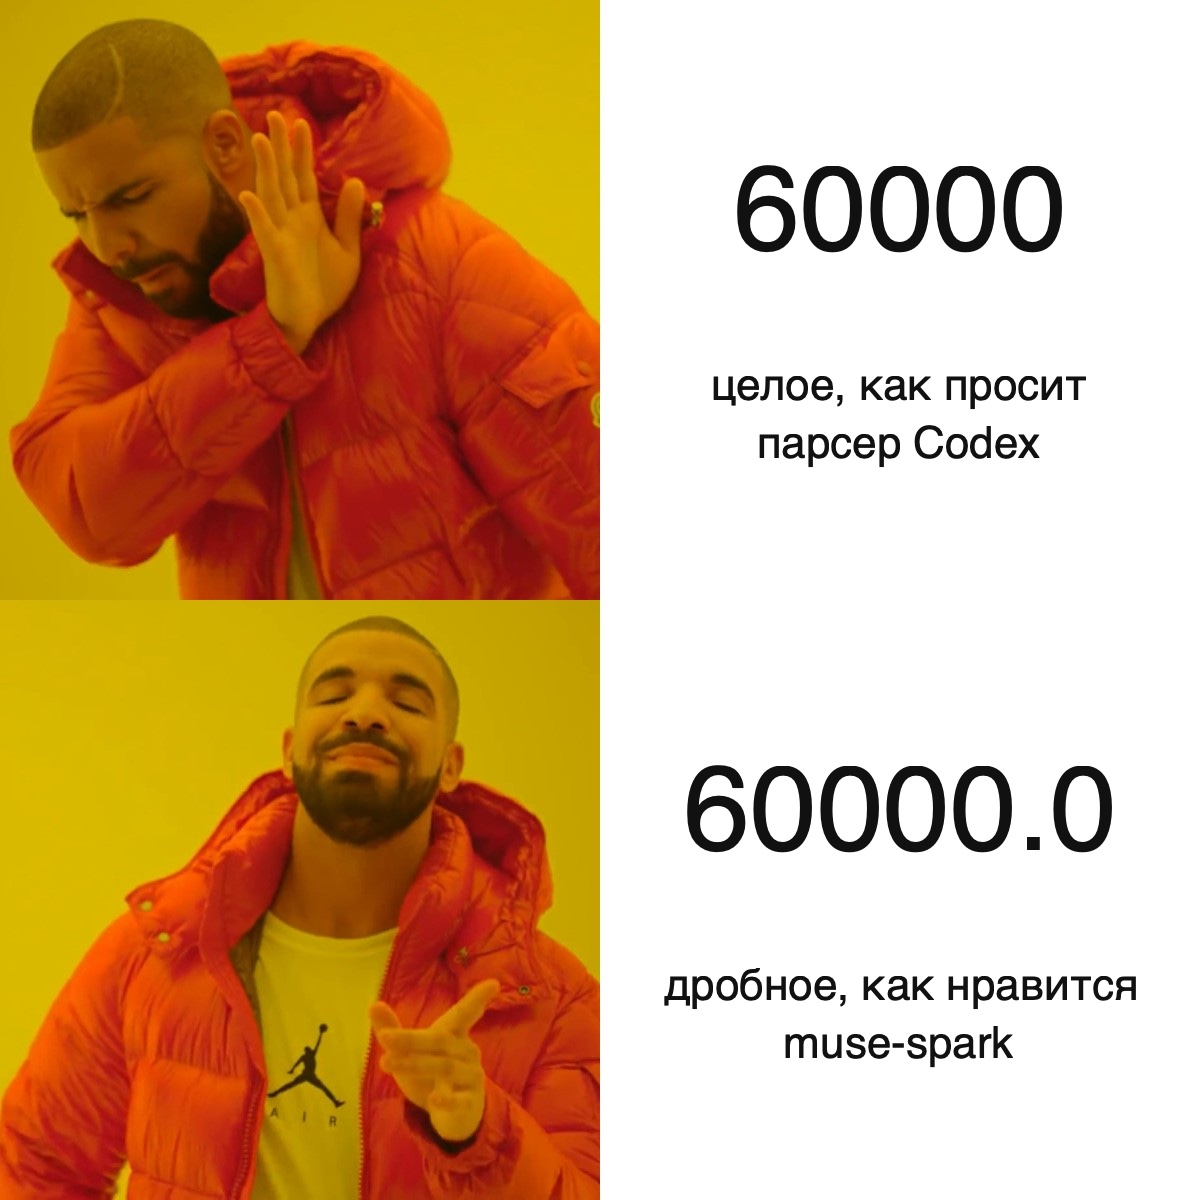
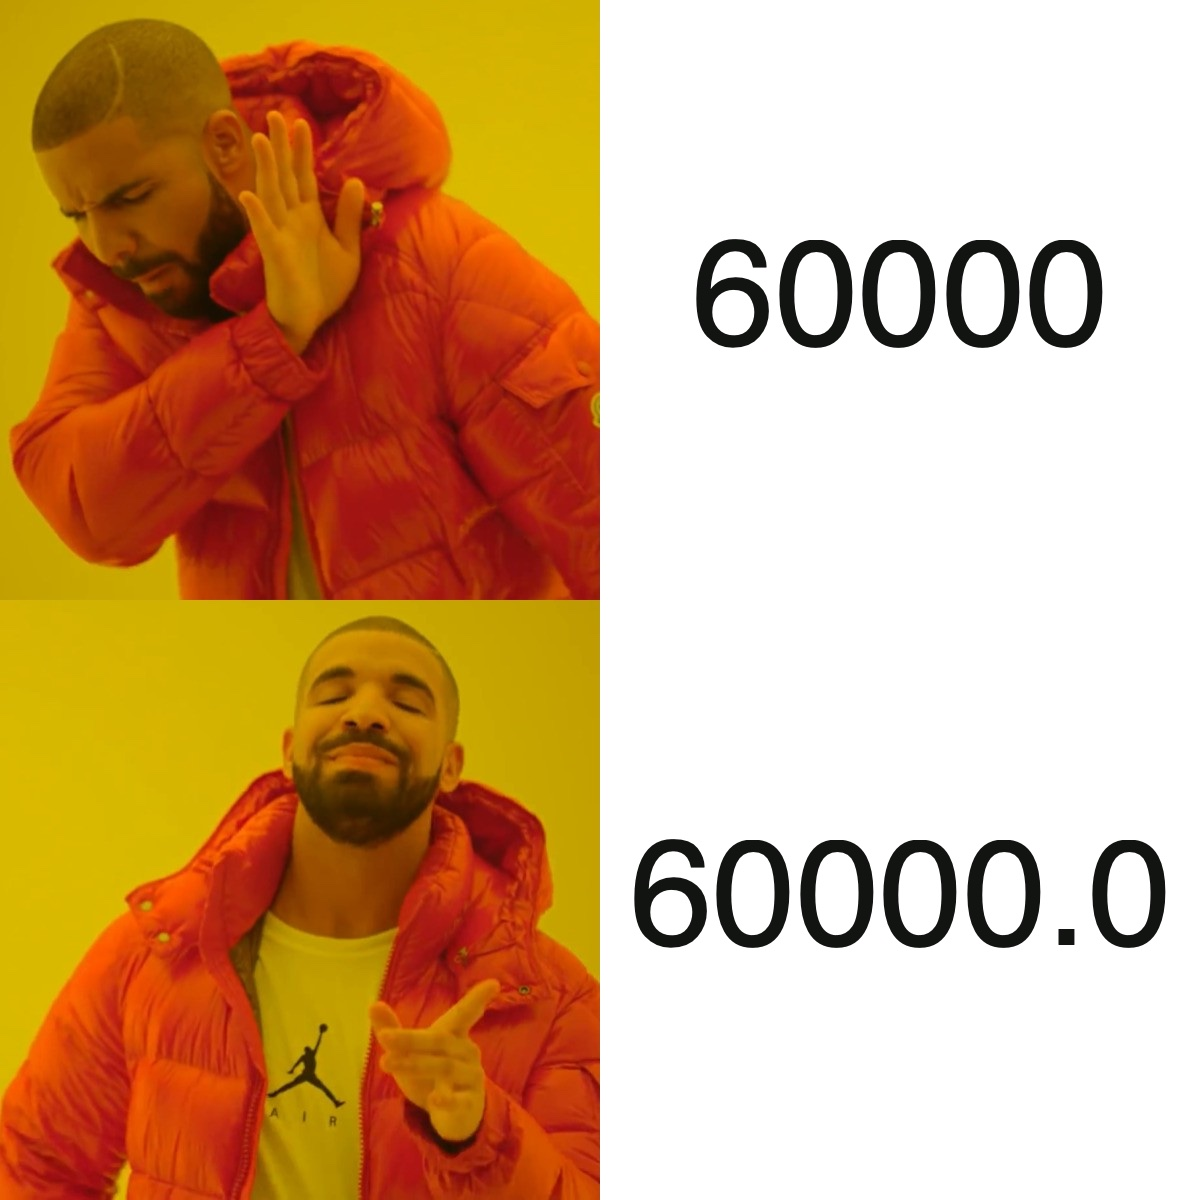
Post: drop Gandalf, Drake with numbers only in light and dark variants

Changed region(s): [[0.5242, 0.6167, 0.9867, 0.8942], [0.555, 0.1233, 0.925, 0.4008]]

diff --git a/posts/codex-goal-token-burn.ru.md b/posts/codex-goal-token-burn.ru.md
@@ -229,11 +229,10 @@ Codex.
 принудительно включённый `sleep` ей не поможет: его аргумент `duration_ms`
 тоже целое.
 
-[![Дрейк отворачивается от 60000 и одобряет 60000.0](/blog/codex-goal-token-burn/drake-muse-spark.jpg)](https://knowyourmeme.com/memes/drakeposting)
-
-[![Гэндальф: You shall not pass](/blog/codex-goal-token-burn/gandalf-u64.jpg)](https://knowyourmeme.com/memes/you-shall-not-pass)
-
-Типизация Rust встречает `60000.0`.
+<a href="https://knowyourmeme.com/memes/drakeposting"><picture>
+<source srcset="/blog/codex-goal-token-burn/drake-muse-spark-dark.jpg" media="(prefers-color-scheme: dark)">
+<img src="/blog/codex-goal-token-burn/drake-muse-spark.jpg" alt="Дрейк отворачивается от 60000 и одобряет 60000.0">
+</picture></a>
 
 Откуда берутся 10 секунд. Когда модель запускает команду, Codex отдаёт ей
 управление по таймеру `yield_time_ms`, по умолчанию через 10 секунд.
